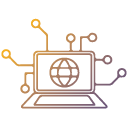
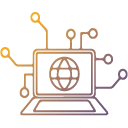
css changes

Changed region(s): [[0.0, 0.0938, 1.0, 0.9062]]

diff --git a/application/views/front/mobile.php b/application/views/front/mobile.php
@@ -184,6 +184,14 @@
 .Comprehensive_Cover{
     font-size: max(1.5vw, 10px);
 }
+.cardItem:hover .icon_images_screen {
+  width: 60px;
+  height: 60px;
+}
+.icon_images_screen{
+    width:82px;
+    height:82px;
+}
     </style>
 
 </head>
@@ -231,30 +239,30 @@
     <div class="container text-center ">
         <div class="row justify-content-center">
             <div class="col-sm-6 col-md-4">
-            <div class="cardItem"><img class="mb-3 icon_images" src="<?php echo base_url();?>image/smartphone (4).png" alt="cardItem"><span class="cardLabel"><strong>Screen Damages</strong></span>
+            <div class="cardItem"><img class="mb-3 icon_images_screen" src="<?php echo base_url();?>image/Artboard 12.png" alt="cardItem"><span class="cardLabel"><strong>Screen Damages</strong></span>
             <p class="mt-3 text_card">Our guarantee covers screen damages. We will repair or replace the subject's screen at no additional cost during the guarantee period.</p>
             </div> 
             </div>
             <div class="col-sm-6 col-md-4">
-            <div class="cardItem"><img class="mb-3 icon_images" src="<?php echo base_url();?>image/smartphone (4).png" alt="cardItem"><span class="cardLabel"><strong>Water/Liquid Damages</strong></span>
+            <div class="cardItem"><img class="mb-3 icon_images" src="<?php echo base_url();?>image/Artboard 12 copy.png" alt="cardItem"><span class="cardLabel"><strong>Water/Liquid Damages</strong></span>
             <p class="mt-3 text_card">Our repair and replacement guarantee covers water/liquid damages for the specified subject. If your device sustains water/liquid damage during the guarantee period, we will repair or replace it at no additional cost.</p>
             </div> 
             </div>
             <div class="col-sm-6 col-md-4">
-            <div class="cardItem"><img class="mb-3 icon_images" src="<?php echo base_url();?>image/smartphone (4).png" alt="cardItem"><span class="cardLabel"><strong>Hardware / Software Damages</strong></span>
+            <div class="cardItem"><img class="mb-3 icon_images" src="<?php echo base_url();?>image/Artboard 12 copy 2.png" alt="cardItem"><span class="cardLabel"><strong>Hardware / Software Damages</strong></span>
             <p class="mt-3 text_card">Our guarantee covers hardware and software damages. We offer repair or replacement services for the subject at no additional cost during the guarantee period.</p>
             </div> 
               
             </div>
 
             <div class="col-sm-6 col-md-4">
-            <div class="cardItem"><img class="mb-3 icon_images" src="<?php echo base_url();?>image/smartphone (4).png" alt="cardItem"><span class="cardLabel"><strong>Free Pick-up and Drop</strong></span>
+            <div class="cardItem"><img class="mb-3 icon_images" src="<?php echo base_url();?>image/Artboard 12 copy 3.png" alt="cardItem"><span class="cardLabel"><strong>Free Pick-up and Drop</strong></span>
             <p class="mt-3 text_card">Our repair and replacement guarantee includes free pick-up and drop-off services for the specified subject, ensuring a convenient and hassle-free experience during the guarantee period.</p>
             </div> 
               
             </div>
             <div class="col-sm-6 col-md-4">
-            <div class="cardItem"><img class="mb-3 icon_images" src="<?php echo base_url();?>image/smartphone (4).png" alt="cardItem"><span class="cardLabel"><strong>Brand Authorized Repairs</strong></span>
+            <div class="cardItem"><img class="mb-3 icon_images" src="<?php echo base_url();?>image/Artboard 12 copy 4.png" alt="cardItem"><span class="cardLabel"><strong>Brand Authorized Repairs</strong></span>
             <p class="mt-3 text_card">Our repair and replacement guarantee ensures that all repairs for the specified subject are conducted by authorized technicians, maintaining the brand's standards and quality during the guarantee period.</p>
             </div> 
             

diff --git a/application/views/front/insurance.php b/application/views/front/insurance.php
@@ -185,6 +185,11 @@ color: #313131;
   width: 60px;
   height: 60px;
 }
+.cardItem:hover .icon_images_screen {
+  width: 60px;
+  height: 60px;
+}
+
 .cardLabel {
   
   width: 100%;
@@ -209,6 +214,10 @@ color: #313131;
 .icon_images{
     width:70px;
     height:70px;
+}
+.icon_images_screen{
+    width:82px;
+    height:82px;
 }
 .Comprehensive_Cover{
     font-size: max(1.5vw, 10px);
@@ -450,7 +459,7 @@ color: #313131;
     <div class="container text-center ">
         <div class="row justify-content-center">
             <div class="col-sm-6 col-md-4">
-            <div class="cardItem"><img class="mb-3 icon_images" src="<?php echo base_url();?>image/Artboard 12.png" alt="cardItem"><span class="cardLabel"><strong>Screen Damages</strong></span>
+            <div class="cardItem"><img class="mb-3 icon_images_screen" src="<?php echo base_url();?>image/Artboard 12.png" alt="cardItem"><span class="cardLabel"><strong>Screen Damages</strong></span>
             <p class="mt-3 text_card">Our guarantee covers screen damages. We will repair or replace the subject's screen at no additional cost during the guarantee period.</p>
             </div> 
             </div>

diff --git a/application/views/front/Calculator.php b/application/views/front/Calculator.php
@@ -119,6 +119,14 @@
 .Comprehensive_Cover{
     font-size: max(1.5vw, 10px);
 }
+.cardItem:hover .icon_images_screen {
+  width: 60px;
+  height: 60px;
+}
+.icon_images_screen{
+    width:82px;
+    height:82px;
+}
     </style>
 </head>
 
@@ -366,7 +374,7 @@
     <div class="container text-center ">
         <div class="row justify-content-center">
             <div class="col-sm-6 col-md-4">
-            <div class="cardItem"><img class="mb-3 icon_images" src="<?php echo base_url();?>image/Artboard 12.png" alt="cardItem"><span class="cardLabel"><strong>Screen Damages</strong></span>
+            <div class="cardItem"><img class="mb-3 icon_images_screen" src="<?php echo base_url();?>image/Artboard 12.png" alt="cardItem"><span class="cardLabel"><strong>Screen Damages</strong></span>
             <p class="mt-3 text_card">Our guarantee covers screen damages. We will repair or replace the subject's screen at no additional cost during the guarantee period.</p>
             </div> 
             </div>
